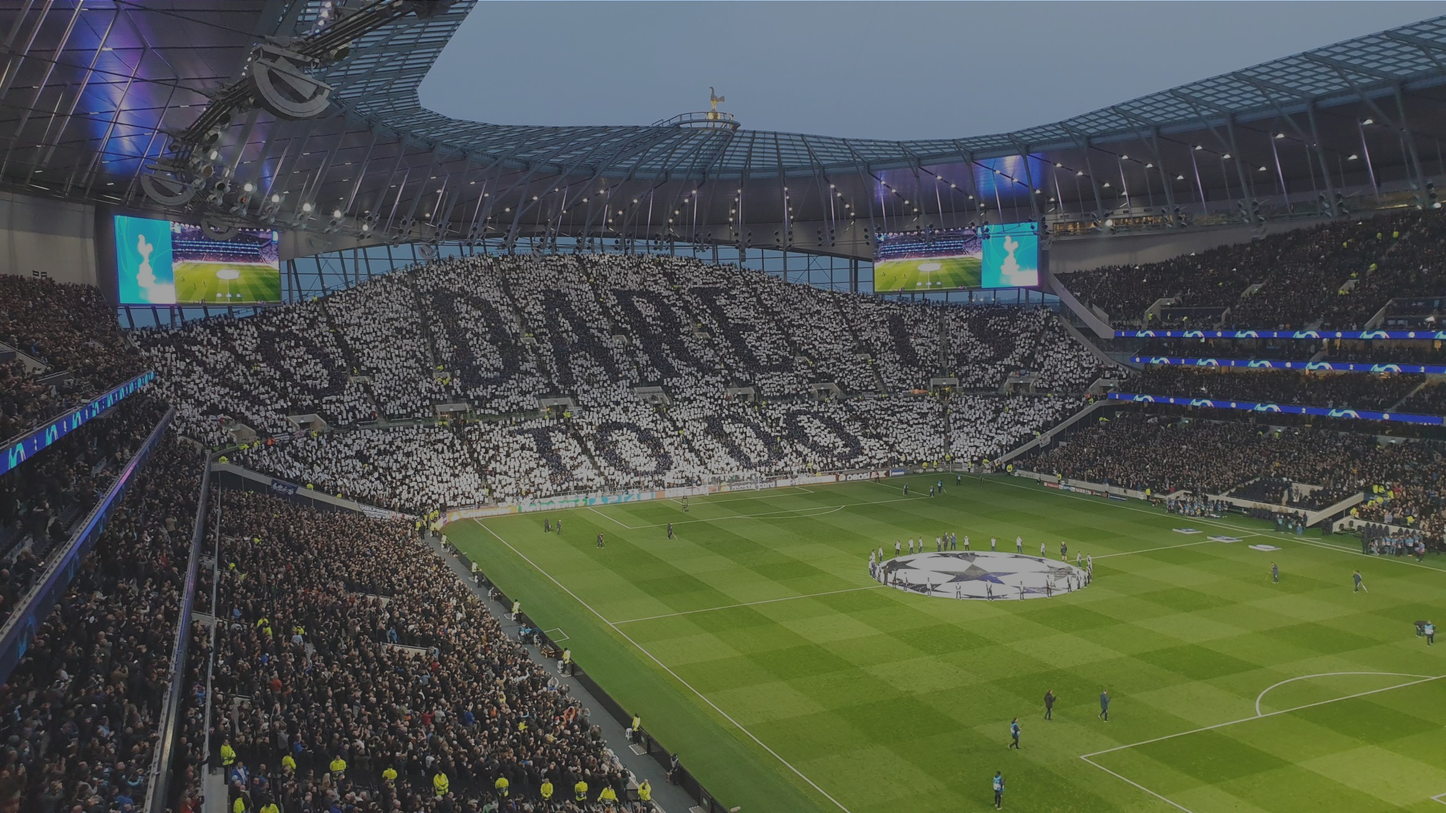
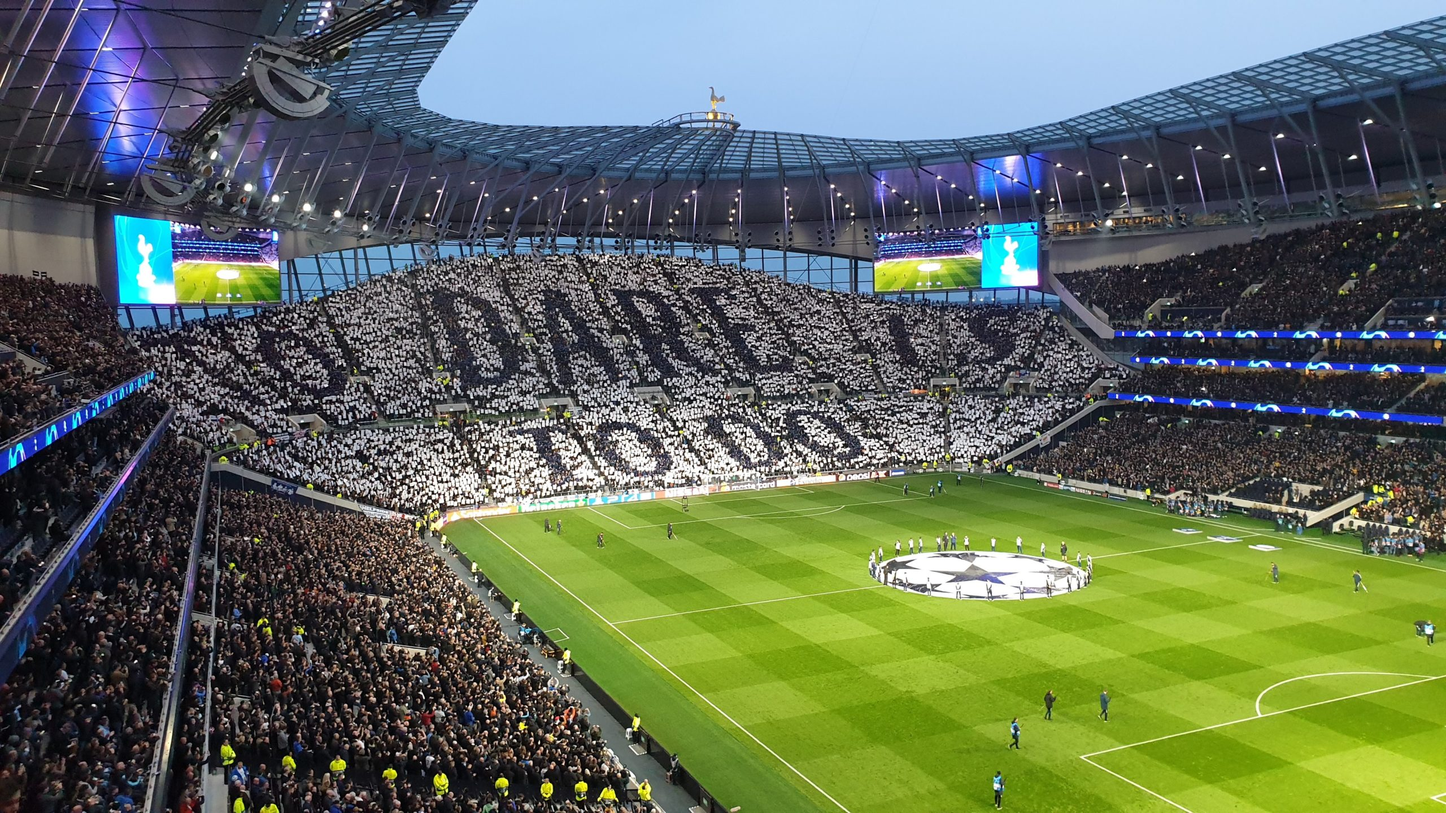
메인 페이드 슬라이더 구현

diff --git a/index.html b/index.html
@@ -9,11 +9,36 @@
     </head>
     <body>
         <div class="main">
+            <img
+                src="./img/back/mainImg_0.jpg"
+                alt="background Img"
+                class="mainBackImg backImg0"
+            />
+            <img
+                src="./img/back/mainImg_1.jpg"
+                alt="background Img"
+                class="mainBackImg backImg1"
+            />
+            <img
+                src="./img/back/mainImg_2.jpg"
+                alt="background Img"
+                class="mainBackImg backImg2"
+            />
+            <img
+                src="./img/back/mainImg_3.jpg"
+                alt="background Img"
+                class="mainBackImg backImg3"
+            />
             <img src="./img/tot_logo.png" alt="Tottenham logo" class="logo" />
-            <canvas id="TotMain"></canvas>
+            <h1 class="mainText">
+                Tottenham<br />
+                Hotspur
+            </h1>
+            <div class="nextBtn">▼</div>
+            <!-- <canvas id="TotMain" width="300" height="150"></canvas> -->
         </div>
         <div class="HeadCoach"></div>
-
-        <script src="./mainCanvas.js"></script>
+        <script src="script.js"></script>
+        <!-- <script src="./mainCanvas.js"></script> -->
     </body>
 </html>

diff --git a/mainCanvas.js b/mainCanvas.js
@@ -1,7 +1,8 @@
 const canvas = document.getElementById("TotMain");
 const ctx = canvas.getContext("2d");
 canvas.width = (window.innerWidth / 100) * 70;
-canvas.height = 250;
+console.log(canvas.width);
+canvas.height = (window.innerWidth / 100) * 25;
 let particleArray = [];
 let adjustX = 5;
 let adjustY = 5;
@@ -12,18 +13,17 @@ const mouse = {
     y: null,
     radius: 100,
 };
-canvas.addEventListener("mousemove", (e) => {
-    console.log(e.x, e.y);
-});
+// canvas.addEventListener("mousemove", (e) => {});
 window.addEventListener("mousemove", (e) => {
-    mouse.x = e.x - (window.innerWidth / 100) * 25;
+    mouse.x = e.x - (window.innerWidth / 100) * 27;
     mouse.y = e.y - canvas.getBoundingClientRect().top;
+    // console.log("찐 마우스 좌표", e.x, e.y, "로고 표시 좌표", mouse.x, mouse.y);
 });
 ctx.textAlign = "center";
 ctx.fillStyle = "white";
-ctx.font = "bold 23px Verdana";
-ctx.fillText("Tottenham", 70, 20);
-ctx.fillText("Hotspur", 70, 40);
+ctx.font = `bold ${(canvas.width / 100) * 3}px Verdana`;
+ctx.fillText("Tottenham", 42, 10);
+ctx.fillText("Hotspur", 42, 20);
 
 const textCoordinates = ctx.getImageData(0, 0, 200, 100);
 

diff --git a/style.css b/style.css
@@ -1,20 +1,47 @@
+@import url("https://fonts.googleapis.com/css2?family=Nanum+Myeongjo&display=swap");
 * {
     margin: 0;
+}
+body {
+    background-color: black;
 }
 .main {
     display: flex;
     flex-direction: column;
     width: 100%;
     height: 100vh;
-    background-image: url(./img/back/mainImg_0.jpg);
-    background-size: cover;
-    background-position: center;
     justify-content: center;
 }
+.main .mainBackImg {
+    position: absolute;
+    width: 100%;
+    height: 100%;
+    filter: brightness(0.7);
+    object-fit: cover;
+    opacity: 0;
+    transition: 1s;
+}
+
 .main .logo {
     width: 150px;
     margin: 0 auto;
+    z-index: 10;
 }
-.main #TotMain {
-    margin-left: 25%;
+.main .mainText {
+    font-family: "Nanum Myeongjo", serif;
+    color: white;
+    text-align: center;
+    font-size: calc(30px + 4vw);
+    z-index: 10;
+}
+
+.main .nextBtn {
+    position: absolute;
+    text-align: center;
+    font-size: calc(20px + 0.5vw);
+    color: rgb(255, 255, 255);
+    left: 50%;
+    transform: translateX(-50%);
+    bottom: 10px;
+    cursor: pointer;
 }

diff --git a/script.js b/script.js
@@ -1,0 +1,21 @@
+const mainImg0 = document.getElementsByClassName("backImg0")[0];
+const mainImg1 = document.getElementsByClassName("backImg1")[0];
+const mainImg2 = document.getElementsByClassName("backImg2")[0];
+const mainImg3 = document.getElementsByClassName("backImg3")[0];
+let n = 0;
+
+setInterval(() => {
+    if (n < 3) {
+        if (n > 0) {
+            eval("mainImg" + (n - 1) + ".style.opacity = 0;");
+        } else {
+            mainImg3.style.opacity = 0;
+        }
+        eval("mainImg" + n + ".style.opacity = 1;");
+        n++;
+    } else {
+        eval("mainImg" + (n - 1) + ".style.opacity = 0;");
+        eval("mainImg" + n + ".style.opacity = 1;");
+        n = 0;
+    }
+}, 3000);
